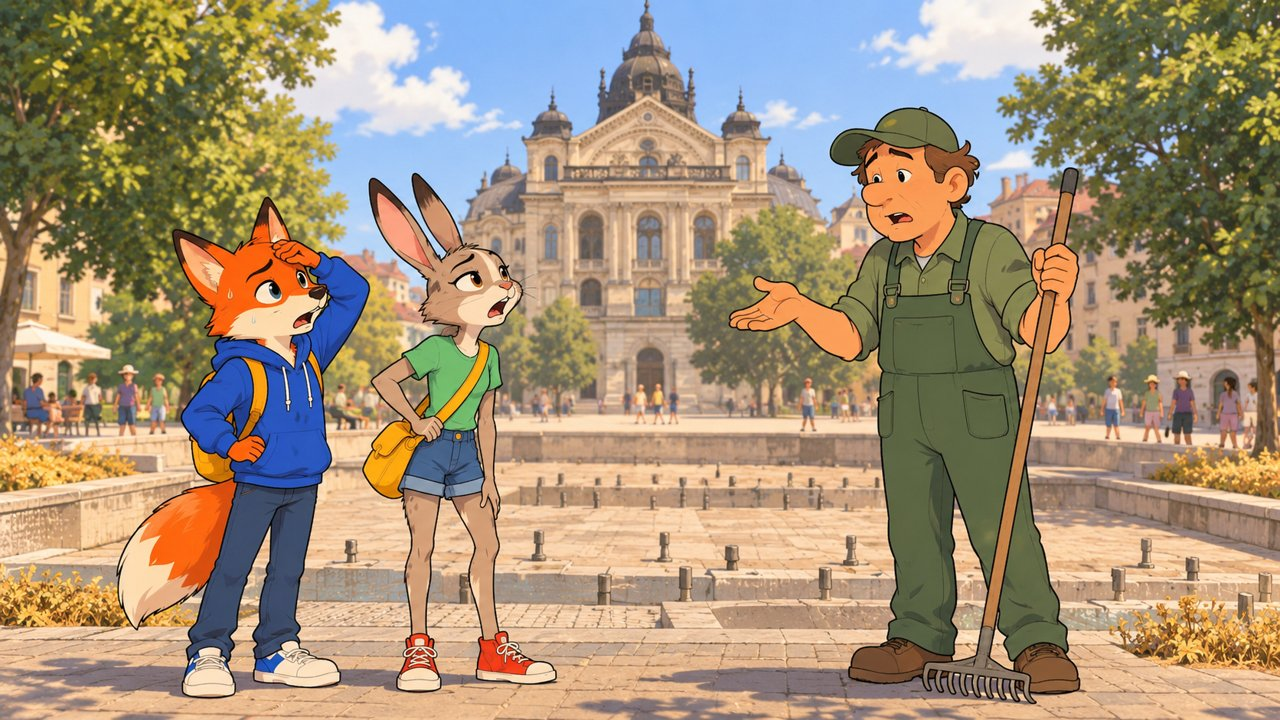
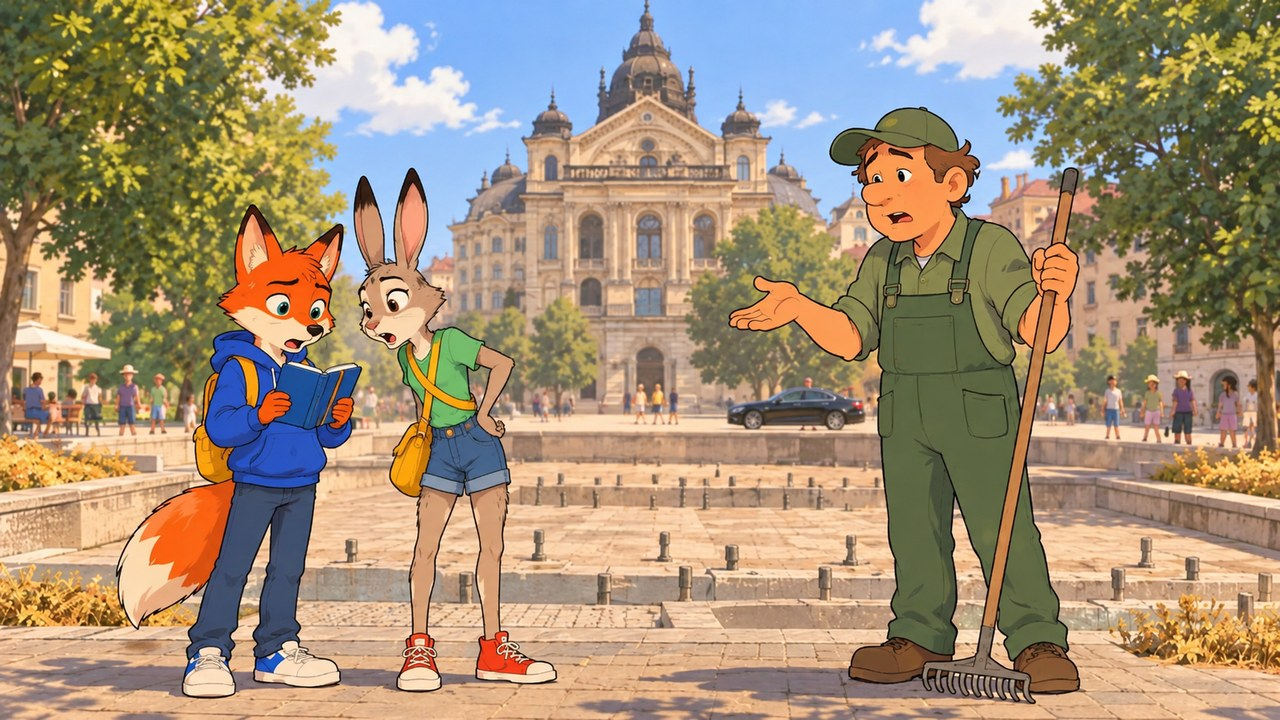
Illustration 02 Sucho : carnet bleu visible entre les pattes du renard
Claude-Session: https://claude.ai/code/session_01VgBQmvtNzpdYvTQXwXDqpK

diff --git a/docs/Prompts-illustrations.md b/docs/Prompts-illustrations.md
@@ -312,7 +312,7 @@ Style: Classic 2D hand-drawn animated-film style (not 3D): clean ink outlines, f
 
 | Image | Pourquoi | Priorité |
 |---|---|---|
-| 02 Sucho | Le carnet est trouvé dans cette scène : il doit se voir. | à faire |
+| 02 Sucho | Le carnet est trouvé dans cette scène : il doit se voir. | ✅ fait le 10 novembre (ChatGPT, avec la planche des nouveaux rôles) |
 | 01 Košice | Les passagers humains ressemblent à des enfants ; le cours n'a que des humains adultes. | à faire |
 | 06 Povodeň | Les visages sourient trop pour une inondation (déjà noté). | à faire |
 | 03 Raj | pán Orol leur remet une page du carnet. | facultatif |
